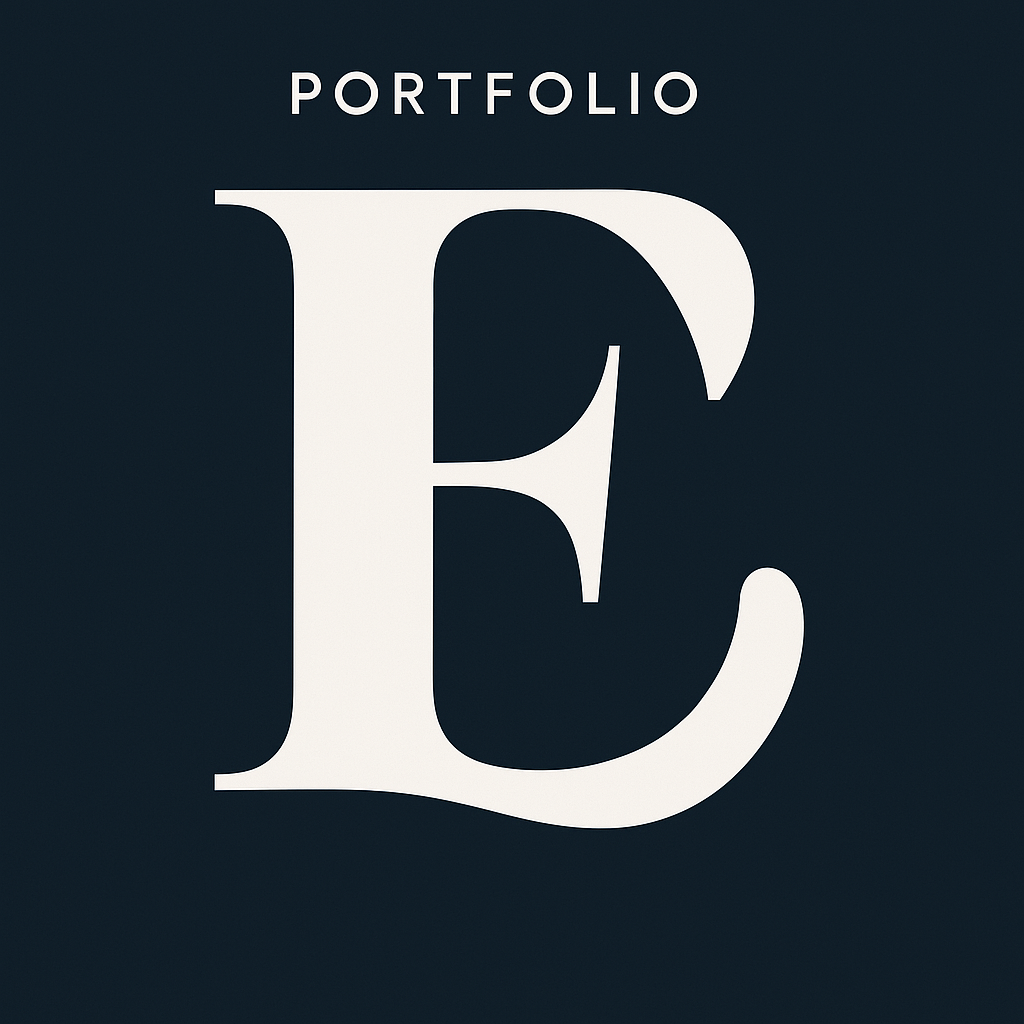
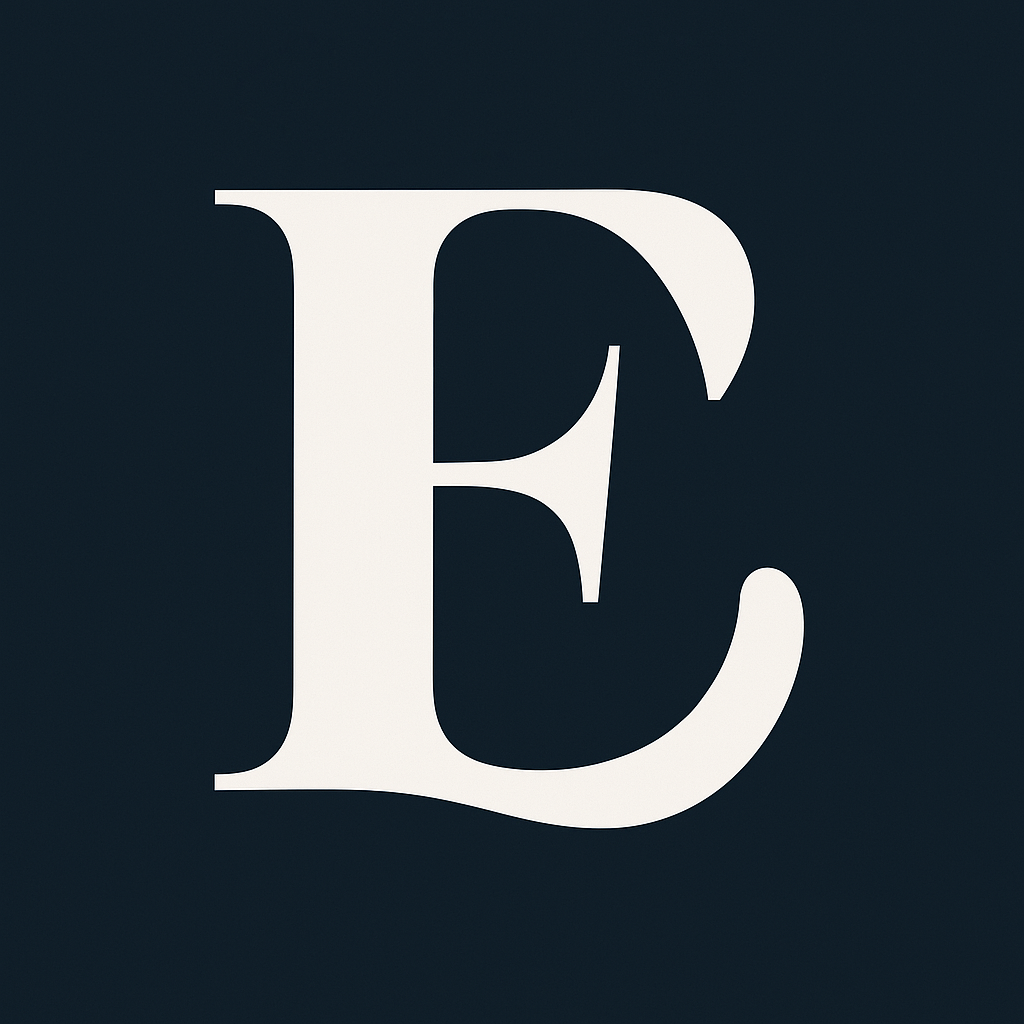
Update navbar branding to use image; enhance email validation feedback in contact form

Changed region(s): [[0.2812, 0.0625, 0.6875, 0.125]]

diff --git a/Resources/Css/style.css b/Resources/Css/style.css
@@ -38,6 +38,12 @@
         color: #3498db;
       }
 
+      .navbar-brand {
+
+        height: 5vh;
+        width: 5vh;
+      }
+
       .navbar-links {
         display: flex;
         gap: 20px;
@@ -69,6 +75,8 @@
         max-width: 700px;
         margin: 0 auto;
         transition: color 0.3s ease;
+        font-family: "Oswald", sans-serif;
+
       }
 
       .header-button {
@@ -86,6 +94,8 @@
         border-top-left-radius: 1.25vh;
         border-bottom-right-radius: 1.25vh;
         border-bottom-left-radius: 1.25vh;
+        font-family: "Oswald", sans-serif;
+
       }
 
       .cta-button {
@@ -100,7 +110,10 @@
         border-top-left-radius: 1vh;
         border-bottom-right-radius: 1vh;
         border-bottom-left-radius: 1vh;
+        font-family: "Oswald", sans-serif;
+
       }
+
       .cta-form {
 
         display: flex;
@@ -108,10 +121,15 @@
         align-items: center;
         justify-content: center;
         margin-top: 20px;
+        font-family: "Oswald", sans-serif;
+
       }
+
       #ctaSection {
         padding: 30px;
         text-align: center;
+        font-family: "Oswald", sans-serif;
+
       }
 
       .cta-input {
@@ -124,6 +142,8 @@
       /* Main Content Styles */
       main {
         padding: 30px;
+        font-family: "Oswald", sans-serif;
+
       }
 
       section {
@@ -142,6 +162,7 @@
       #skills {
         margin-left: 5vh;
       }
+
       #skills .section-1-skill-1,
       #skills .section-1-skill-2,
       #skills .section-1-skill-3,
@@ -222,51 +243,123 @@
 
       /* Project Styles */
       .project {
-        display: flex;
-        flex-direction: column;
-        align-items: center;
         margin-bottom: 40px;
         padding: 20px;
         border-radius: 8px;
-        box-shadow: 0 4px 8px rgba(0, 0, 0, 0.05);
-        background-color: #fff;
         transition: transform 0.3s ease, box-shadow 0.3s ease;
       }
 
-      .project:hover {
+      .project .img-1:hover {
         transform: translateY(-5px);
         box-shadow: 0 6px 12px rgba(0, 0, 0, 0.1);
       }
 
-      .project img {
+      .project .img-1 {
         width: 70vh;
         height: 40vh;
         border-radius: 8px;
-        margin-bottom: 20px;
+        margin-bottom: 0;
+        margin-right: 20px;
         transition: transform 0.3s ease;
+
       }
 
-      .project img:hover {
-        transform: scale(1.05);
+      .project .img-1:hover {
+        transform: scale(1.02);
       }
 
-      .project-name,
-      .project-name-2,
+      .project .img-2:hover {
+        transform: translateY(-5px);
+        box-shadow: 0 6px 12px rgba(0, 0, 0, 0.1);
+      }
+
+      .project .img-2 {
+        width: 70vh;
+        height: 40vh;
+        border-radius: 8px;
+        margin-bottom: 0;
+        margin-right: 20px;
+        margin-left: 112.5vh;
+        transition: transform 0.3s ease;
+
+      }
+
+      .project .img-2:hover {
+        transform: scale(1.02);
+      }
+
+      .project .img-3:hover {
+        transform: translateY(-5px);
+        box-shadow: 0 6px 12px rgba(0, 0, 0, 0.1);
+      }
+
+      .project .img-3 {
+        width: 70vh;
+        height: 40vh;
+        border-radius: 8px;
+        margin-bottom: 0;
+        margin-right: 20px;
+        transition: transform 0.3s ease;
+
+      }
+
+      .project .img-3:hover {
+        transform: scale(1.02);
+      }
+
+      .project-name {
+        font-size: 1.6em;
+        color: #2c3e50;
+        margin-top: -30vh;
+        margin-bottom: 10px;
+        margin-left: 100vh;
+        text-align: center;
+        transition: color 0.3s ease;
+      }
+
+      .project-name-2 {
+        font-size: 1.6em;
+        color: #2c3e50;
+        margin-top: -30vh;
+        margin-bottom: 10px;
+        margin-left: 23vh;
+
+        transition: color 0.3s ease;
+      }
+
       .project-name-3 {
         font-size: 1.6em;
         color: #2c3e50;
+        margin-top: -30vh;
         margin-bottom: 10px;
+        margin-left: 100vh;
+
         text-align: center;
         transition: color 0.3s ease;
       }
 
-      .project-description,
-      .project-description-2,
+      .project-description {
+        font-size: 1.1em;
+        color: #555;
+        text-align: right;
+        transition: color 0.3s ease;
+        margin-bottom: 40vh;
+      }
+
+      .project-description-2 {
+        font-size: 1.1em;
+        color: #555;
+        text-align: left;
+        transition: color 0.3s ease;
+        margin-bottom: 40vh;
+      }
+
       .project-description-3 {
         font-size: 1.1em;
         color: #555;
-        text-align: center;
+        text-align: right;
         transition: color 0.3s ease;
+        margin-bottom: 40vh;
       }
 
       /* Testimonials Styles */

diff --git a/main.js b/main.js
@@ -1,4 +1,4 @@
-const sections = document.querySelectorAll("section");
+const sections = document.querySelector("main")?.querySelectorAll("section") || [];
 
 const observer = new IntersectionObserver((entries) => {
   entries.forEach((entry) => {
@@ -19,21 +19,29 @@ const navLinks = document.querySelectorAll("nav a");
 navLinks.forEach((link) => {
   link.addEventListener("click", (event) => {
     event.preventDefault();
-    const targetId = link.getAttribute("href");
+    let targetId = link.getAttribute("href");
+    if (targetId && targetId.startsWith("#")) {
+      const targetElement = document.querySelector(targetId);
+      if (targetElement) {
+        targetElement.scrollIntoView({
+          behavior: "smooth",
+        });
+      }
+    } else {
+      console.warn(`Invalid href value: ${targetId}`);
+      return;
+    }
     const targetElement = document.querySelector(targetId);
 
     if (targetElement) {
       targetElement.scrollIntoView({
         behavior: "smooth",
-      });
+        });
+      
     }
-
-    navLinks.forEach((otherLink) => {
-      otherLink.classList.remove("active");
-    });
-    link.classList.add("active");
   });
 });
+
 document.querySelectorAll(".nav-link").forEach((link) => {
   link.addEventListener("mouseover", function (e) {
     this.style.color = "#3498db";
@@ -44,24 +52,40 @@ document.querySelectorAll(".nav-link").forEach((link) => {
   });
 });
 const currentYear = new Date().getFullYear();
-document.getElementById("year").textContent = currentYear;
-
-const navbarLinks = document.querySelector(".navbar-links");
+const yearElement = document.getElementById("year");
+if (yearElement) {
+  yearElement.textContent = currentYear;
+}
 const contactForm = document.getElementById("contactForm");
-contactForm.addEventListener("submit", function (event) {
-  event.preventDefault(); // Prevent the form from submitting
+if (contactForm) {
+  contactForm.addEventListener("submit", function (event) {
+    event.preventDefault();
 
-  const emailInput = document.getElementById("email");
-  const emailValue = emailInput.value.trim();
+    const emailInput = document.getElementById("email");
+    const emailValue = emailInput.value.trim();
 
-  if (!isValidEmail(emailValue)) {
-    alert("Please enter a valid email address.");
-    return;
-  }
+    if (!isValidEmail(emailValue)) {
+      const errorMessage = document.getElementById("emailError");
+      if (!errorMessage) {
+        const errorSpan = document.createElement("span");
+        errorSpan.id = "emailError";
+        errorSpan.textContent = "Please enter a valid email address.";
+        errorSpan.style.color = "red";
+        emailInput.parentNode.insertBefore(errorSpan, emailInput.nextSibling);
+      }
+      emailInput.style.borderColor = "red";
+      return;
+    }
 
-  alert("Thank you for your message!");
-  contactForm.reset();
-});
+    const errorMessage = document.getElementById("emailError");
+    if (errorMessage) {
+      errorMessage.remove();
+    }
+    emailInput.style.borderColor = "";
+    alert("Thank you for your message!");
+    contactForm.reset();
+  });
+}
 
 function isValidEmail(email) {
   const emailRegex = /^[^\s@]+@[^\s@]+\.[^\s@]+$/;

diff --git a/index.html b/index.html
@@ -17,7 +17,7 @@
 
 <body>
   <nav class="navbar">
-    <a href="#" class="navbar-brand">E</a>
+    <img class="navbar-brand" src="./Resources/Images/E.png"/>
     <div class="navbar-links">
       <a href="#home" class="nav-link" data-page="home">Home</a>
       <a href="#skills" class="nav-link" data-page="skills">Skills</a>
@@ -75,7 +75,7 @@
           <img class="img-2" src="./Resources/Images/Image-2.png" alt="Responsive Club Project Preview" />
         </a>
         <h4 class="project-name-2">Responsive Club</h4>
-        <p class="project-description-2"></p>
+        <p class="project-description-2">
           A comprehensive website offering golfing courses and membership
           details.
         </p>
@@ -129,9 +129,10 @@
       </form>
     </section>
   </main>
+  <script src="main.js" defer></script>
+
   <footer class="footer">
     <p>&copy; <span id="year"></span> Ewan Mbale. All rights reserved.</p>
   </footer>
-  <script src="main.js" defer></script>
   </body>
 </html>
